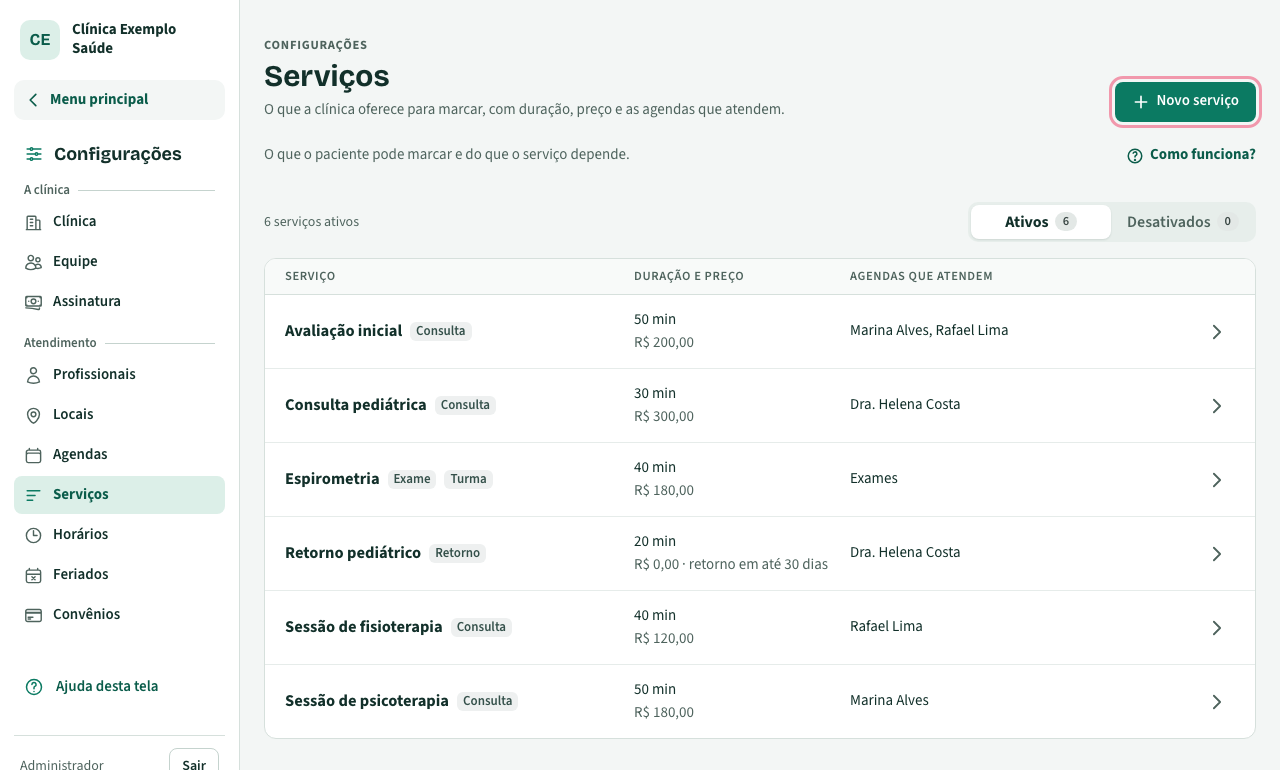
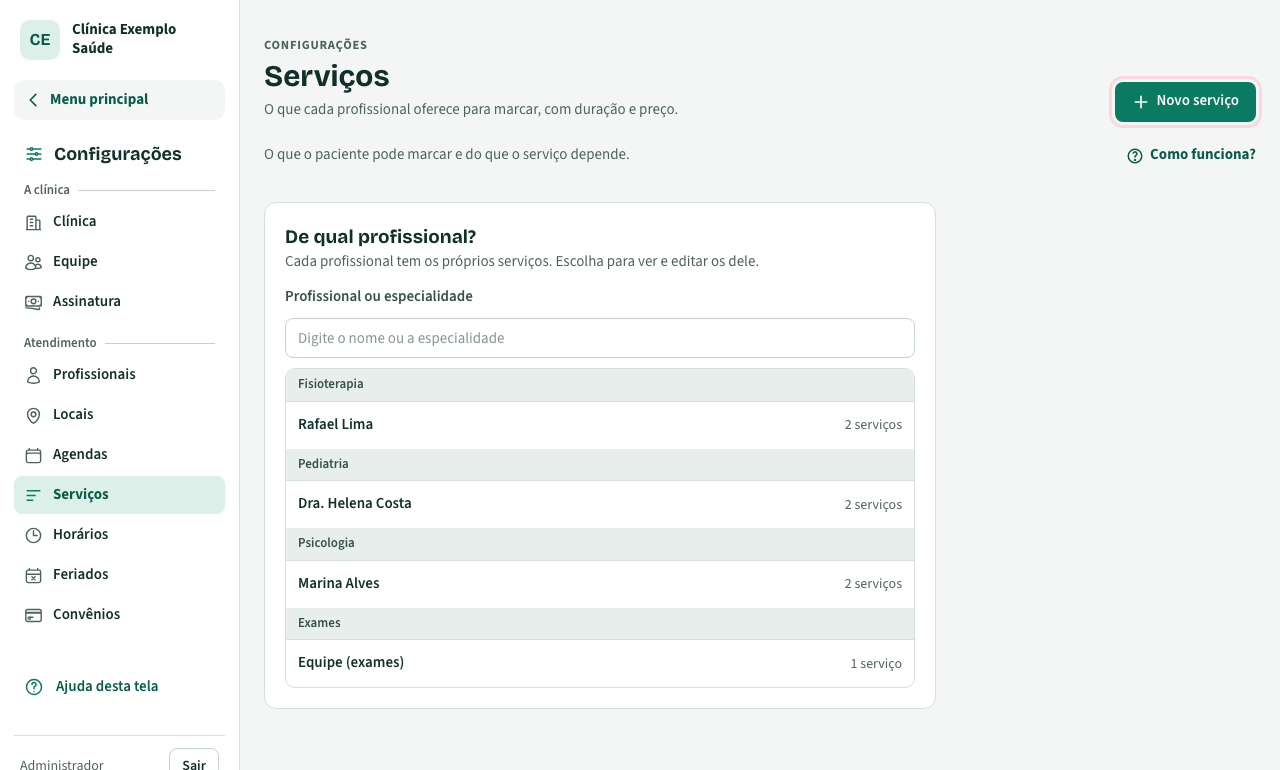
Ajuda: capturas config-servicos e marcar refeitas (MS) e artigo de Serviços com o profissional

diff --git a/src/lib/central/artigos/configuracoes.ts b/src/lib/central/artigos/configuracoes.ts
@@ -105,16 +105,16 @@ export const configuracoesArtigos = [
   article({
     id: "config-servicos",
     title: "Configurações › Serviços",
-    summary: "O que o paciente pode marcar: consultas, retornos e exames, com duração, valor, agendas e locais.",
+    summary: "O que cada profissional oferece para marcar: consultas, retornos e exames, com duração, valor e locais.",
     category: "configuracoes",
     module: "Configurações › Serviços",
     where: "Configurações › Serviços",
     screen: C("/admin/configuracoes/servicos"),
-    keywords: ["serviço", "duração", "valor", "preço", "retorno", "prazo do retorno", "exame", "turma", "preparo", "valor por local"],
+    keywords: ["serviço", "duração", "valor", "preço", "retorno", "prazo do retorno", "exame", "turma", "preparo", "valor por local", "profissional", "serviço da equipe"],
     synonyms: ["cadastrar consulta", "tipo de atendimento", "tabela de preços", "preparo do exame"],
     related: ["config-agendas", "config-locais", "config-horarios", "marcar-retorno"],
     order: 64,
-    intro: "Cada serviço diz o que se marca, quanto dura, quanto custa e onde e com quem pode ser atendido.",
+    intro: "Cada serviço é de um profissional (ou da equipe, nos exames) e diz o que se marca, quanto dura, quanto custa e onde. Com mais de um profissional, a tela abre em \"De qual profissional?\": busque pelo nome ou pela especialidade e escolha; a escolha fica lembrada.",
     fields: [
       { name: "Tipo", text: "Consulta (atendimento comum), Retorno (volta ligada a uma consulta anterior, com prazo e valor próprios) e Exame (pode ter preparo e ser em turma; só com o item Exames e procedimentos)." },
       { name: "Duração (min)", text: "Define o tamanho de cada horário livre." },
@@ -122,7 +122,8 @@ export const configuracoesArtigos = [
       { name: "Prazo do retorno (dias)", text: "Contado da última consulta na mesma agenda. Vazio é sem prazo." },
       { name: "Como é marcado (exame)", text: "Individual (um paciente por horário) ou Em turma (vários no mesmo horário, até o número de vagas, definido em Horários)." },
       { name: "Preparo", text: "Texto e/ou arquivo. Vai uma vez só pelo WhatsApp, logo depois que a confirmação da marcação chega ao paciente; o bot também manda quando ele pede. Se não chegou, use Reenviar preparo na Agenda." },
-      { name: "Agendas e locais", text: "O serviço só aparece para marcar nas agendas e nos locais marcados aqui." },
+      { name: "Profissional", text: "Dono do serviço: duração, valor e locais valem só para ele. \"Equipe (exames)\" só no tipo Exame. Não muda depois de criado; para outro profissional, cadastre um serviço novo. O profissional com login cadastra e edita os serviços dele." },
+      { name: "Locais", text: "O serviço aparece para marcar na agenda do profissional dele, nos locais marcados aqui." },
     ],
     notes: ["Serviço sem horário de atendimento numa agenda e num local dele não aparece no bot nem no link de agendar; o selo diz o que falta."],
     contextual: ["/admin/configuracoes/servicos"],

diff --git a/src/lib/central/imagens.ts b/src/lib/central/imagens.ts
@@ -24,7 +24,7 @@ export const IMAGENS: Record<string, ArticleImage[]> = {
   "config-profissionais": [shot("config-profissionais", "Configurações › Profissionais, com o botão Novo profissional destacado.", "Profissionais: a lista mostra o registro, o WhatsApp e o selo do que falta.")],
   "config-locais": [shot("config-locais", "Configurações › Locais, com o botão Novo local destacado.", "Locais: consultórios e atendimento domiciliar.")],
   "config-agendas": [shot("config-agendas", "Configurações › Agendas, com o botão Nova agenda destacado.", "Agendas: uma por profissional, mais a da equipe para exames.")],
-  "config-servicos": [shot("config-servicos", "Configurações › Serviços, com o botão Novo serviço destacado.", "Serviços: o selo diz o que falta para o serviço aparecer para marcar.")],
+  "config-servicos": [shot("config-servicos", "Configurações › Serviços, com a pergunta De qual profissional? e o botão Novo serviço destacado.", "Serviços: escolha o profissional para ver os serviços dele; o selo diz o que falta para o serviço aparecer para marcar.")],
   "config-horarios": [shot("config-horarios", "Configurações › Horários, com o seletor de agenda destacado e a semana da agenda.", "Horários: escolha a agenda e adicione os horários de cada dia.")],
   "config-feriados": [shot("config-feriados", "Configurações › Feriados, com o botão Adicionar destacado.", "Feriados: os nacionais já vêm cadastrados; adicione os da clínica.")],
   "config-convenios": [shot("config-convenios", "Configurações › Convênios, com o botão Novo plano destacado.", "Convênios: planos atendidos e a opção de pedir carteirinha.")],

diff --git a/docs/README.md b/docs/README.md
@@ -3,7 +3,7 @@
 > **MS, serviços por profissional (07/nov):** S2, S3, S1 e S4 feitas e **no staging** (`02d17e3`; migrações
 > `20261230120000` e `20261230130000` aplicadas lá). O cliente valida pelo roteiro no fim da seção 10 do
 > [`planejamento-multiprofissional.md`](planejamento-multiprofissional.md). Produção só com autorização. Capturas na fila:
-> `config-servicos` e `marcar` (autorizar a recaptura).
+> `config-profissionais`, `config-convenios` e `config-clinica` (`config-servicos` e `marcar` refeitas).
 >
 > **Multiprofissional (07/nov):** ME, MC e MI + MB no staging (migrações `20261229120000`, `20261229130000` e
 > `20261229140000`); o cliente valida pelo roteiro da seção 8. Produção só com autorização. 3 capturas na fila. Depois:

diff --git a/docs/capturas-pendentes.md b/docs/capturas-pendentes.md
@@ -12,5 +12,3 @@ a captura e o motivo, avisar o cliente no fim da etapa e esperar a autorização
 - `config-profissionais` — lista mostra as especialidades e o selo "sem especialidade" (ME, 07/11/2026)
 - `config-convenios` — coluna "Quem atende" e o selo "nenhum profissional" (MC, 07/11/2026)
 - `config-clinica` — "Informações que o bot responde" virou um aviso apontando para Profissionais (MI, 07/11/2026)
-- `config-servicos` — coluna "Profissional" no lugar de "Agendas que atendem" e a busca "De qual profissional?" (MS, S2 e S4, 07/11/2026)
-- `marcar` — passo 2 "Com quem" (profissional) antes do serviço (MS, S2, 07/11/2026)
